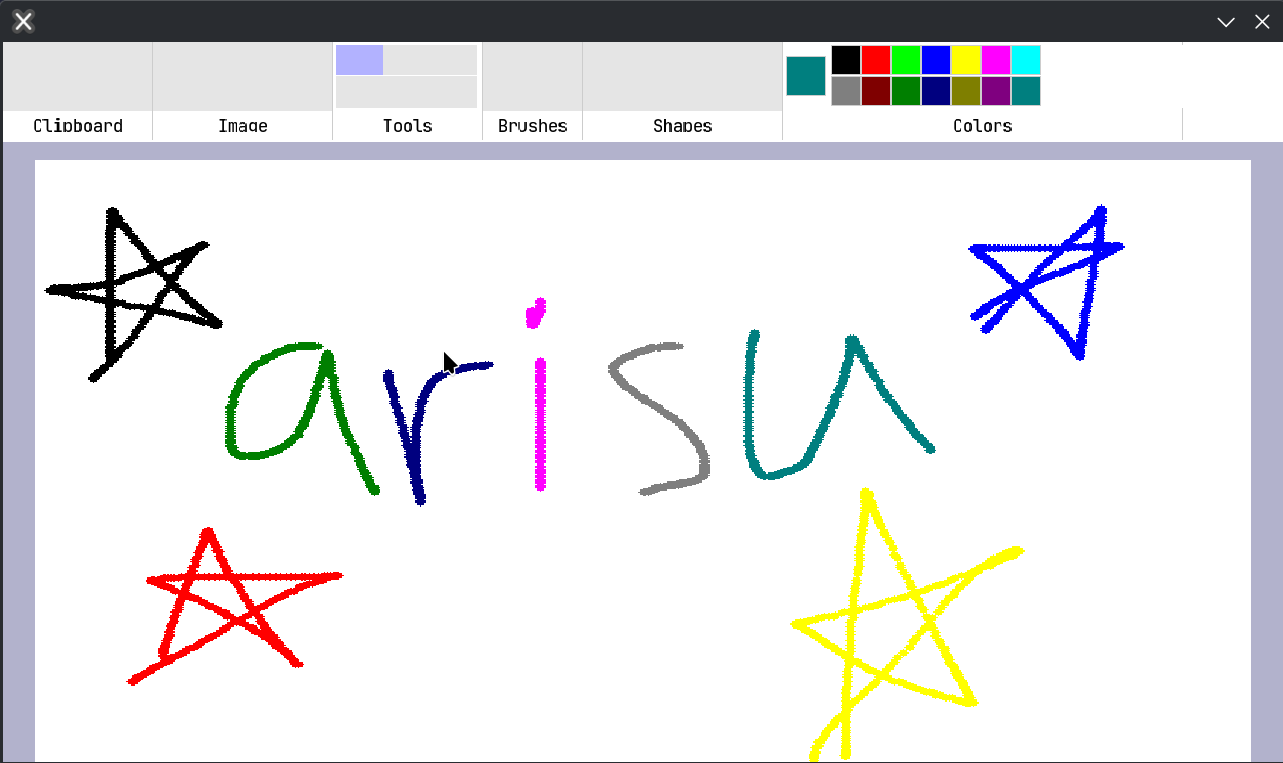
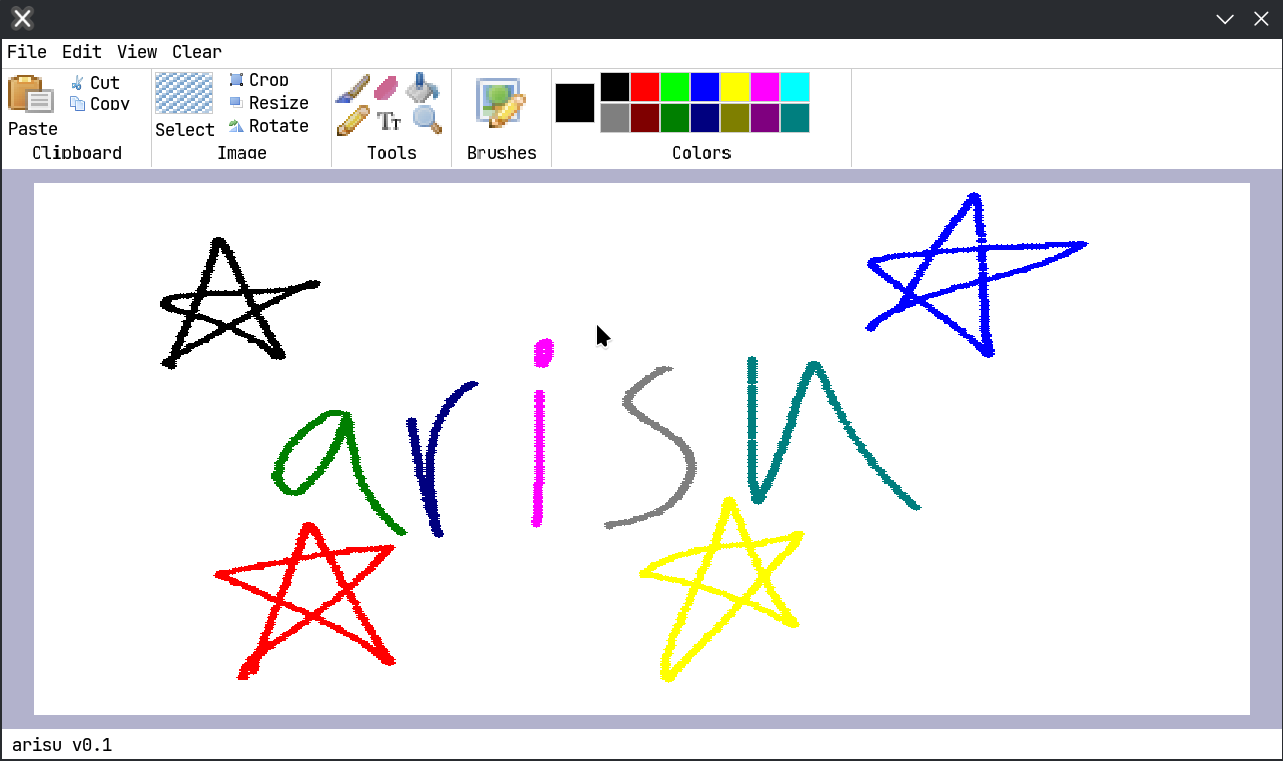
Attributions and new showcase
Also disabled the shapes section, might not do that at all.

diff --git a/README.md b/README.md
@@ -19,3 +19,9 @@ There are no dependencies used by the library. Pure X11 and OpenGL.
 ## Showcase
 
 ![showcase](./showcase.png)
+
+## Attributions
+
+Almost all of the icons are sourced from FamFamFam (Mark James)'s Silk icon set.
+
+The rest are made by me sloppily in GIMP.
